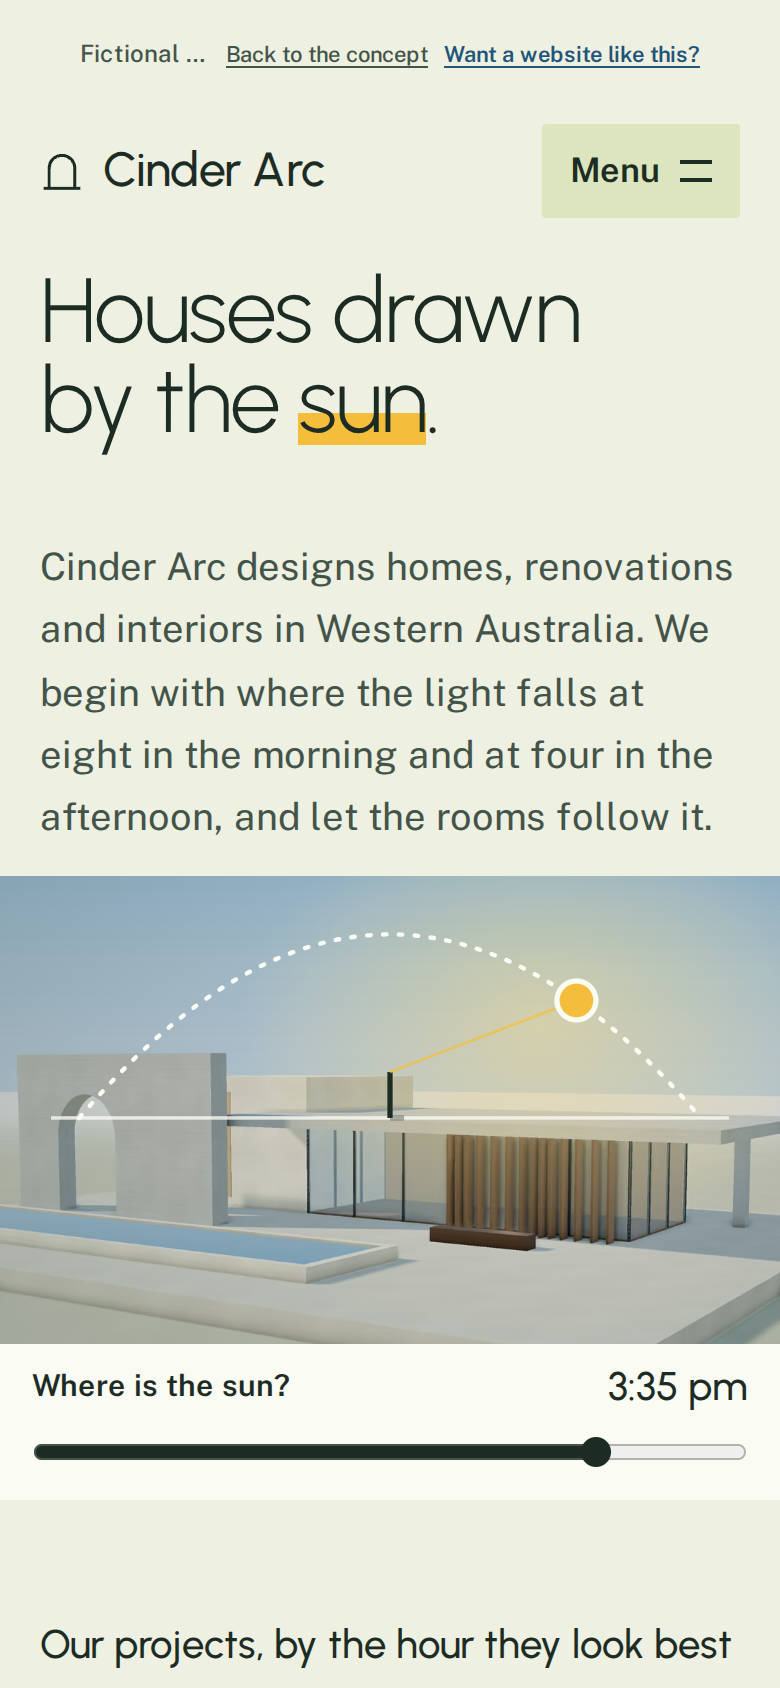
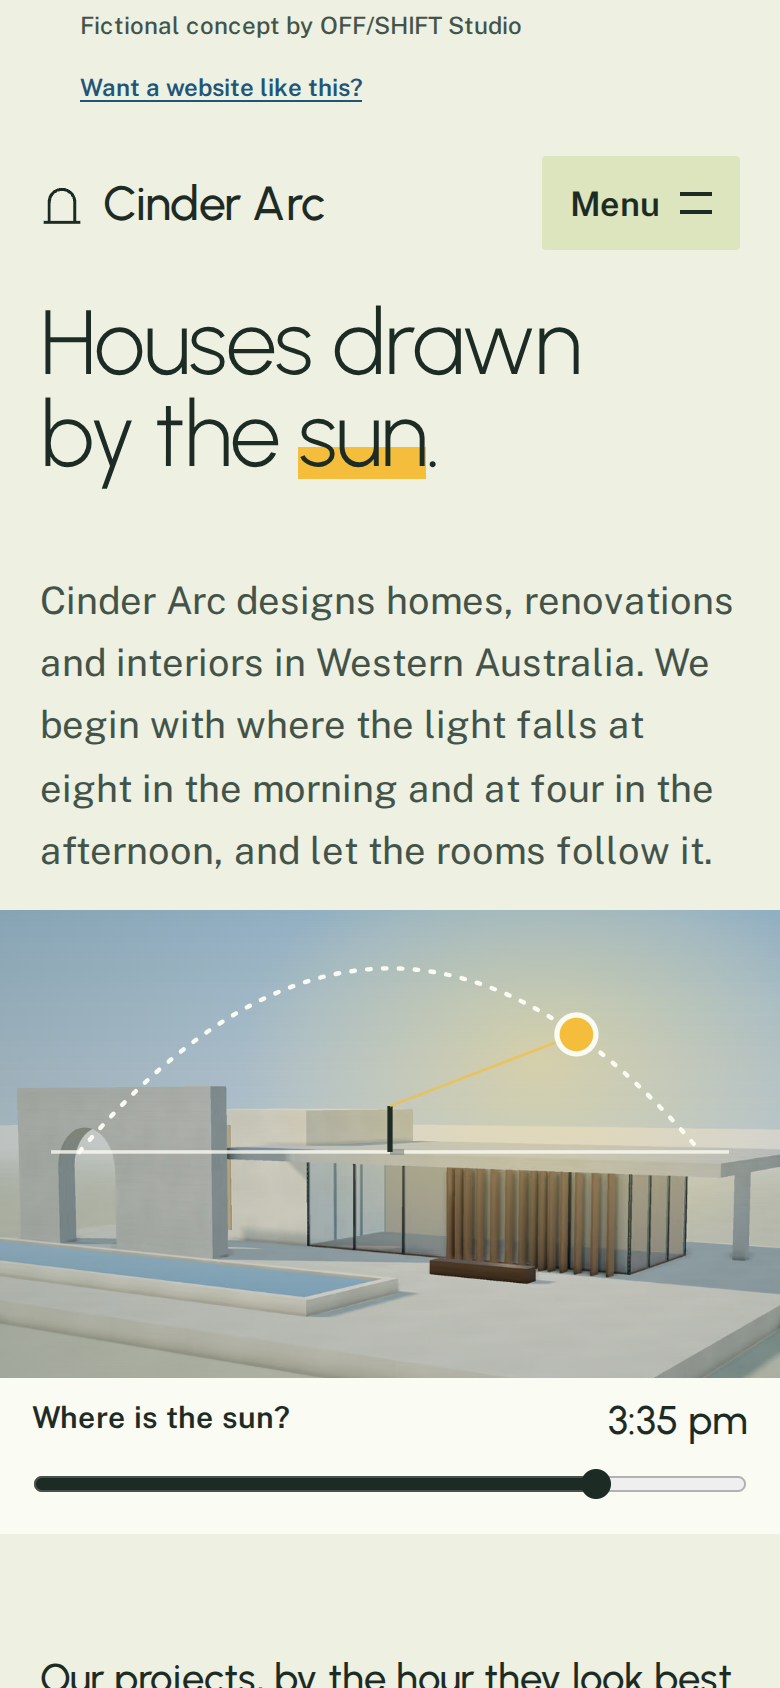
Show full fictional disclosure on mobile concept strip
Hide the strip back link below 60rem so disclosure and studio CTA
wrap instead of truncating; keep the return link in the footer. Tighten
the e2e strip test for mobile vs desktop without dropping coverage.

Changed region(s): [[0.0, 0.0, 1.0, 0.8934], [0.0308, 0.955, 0.9538, 1.0]]

diff --git a/tests/e2e/pages.spec.ts b/tests/e2e/pages.spec.ts
@@ -36,20 +36,32 @@ for (const route of routes) {
     test("shows the studio strip: disclosure, return link and enquiry link", async ({ page }) => {
       await page.goto(route);
       const strip = page.locator(".concept-strip");
+      const width = page.viewportSize()?.width ?? 0;
       await expect(strip.locator("[data-concept-disclosure]")).toHaveText(CONCEPT_DISCLOSURE);
+      if (width >= 360 && width <= 430) {
+        await expect(strip.locator("[data-concept-disclosure]")).toBeVisible();
+        const box = await strip.locator("[data-concept-disclosure]").boundingBox();
+        expect(box?.width ?? 0).toBeGreaterThan(200);
+      }
       const back = strip.locator("[data-concept-return]");
-      await expect(back).toBeVisible();
-      await expect(back).toHaveAttribute("href", CONCEPT_URL);
-      await expect(back).toHaveAccessibleName("Back to the concept");
+      const footerBack = page.locator(".site-footer [data-concept-return]");
       const cta = strip.locator("[data-concept-cta]");
       await expect(cta).toBeVisible();
       await expect(cta).toHaveAttribute("href", STUDIO_CTA_URL);
       await expect(cta).toHaveAccessibleName("Want a website like this?");
-      // The footer repeats both links.
+      if (width >= 960) {
+        await expect(back).toBeVisible();
+        await expect(back).toHaveAttribute("href", CONCEPT_URL);
+        await expect(back).toHaveAccessibleName("Back to the concept");
+      } else {
+        await expect(back).toBeHidden();
+        await expect(footerBack).toBeVisible();
+        await expect(footerBack).toHaveAttribute("href", CONCEPT_URL);
+        await expect(footerBack).toHaveAccessibleName("Back to the concept");
+      }
       await expect(page.locator(".site-footer [data-concept-return]")).toHaveAttribute("href", CONCEPT_URL);
       await expect(page.locator(".site-footer [data-concept-cta]")).toHaveAttribute("href", STUDIO_CTA_URL);
-      // On wide screens it stays in view after scrolling, in the fixed header.
-      if ((page.viewportSize()?.width ?? 0) >= 960) {
+      if (width >= 960) {
         await page.evaluate(() => window.scrollTo(0, document.body.scrollHeight / 2));
         await expect(cta).toBeInViewport();
       }

diff --git a/src/app/globals.css b/src/app/globals.css
@@ -269,40 +269,43 @@ main:focus {
 .concept-links-strip {
   width: min(100% - 2 * var(--gutter), 90rem);
   margin-inline: auto;
-  flex-wrap: nowrap;
-  gap: 0 0.5rem;
-  max-height: 3rem;
+  flex-wrap: wrap;
+  align-content: center;
+  gap: 0.1rem 0.65rem;
+  max-height: none;
 }
 
 .concept-disclosure {
   margin: 0;
   font-weight: 500;
-  white-space: nowrap;
-  overflow: hidden;
-  text-overflow: ellipsis;
-  min-width: 0;
-  flex: 1 1 auto;
-}
-
-.concept-link-back,
-.concept-links-strip .concept-cta {
-  flex: none;
-  display: inline-flex;
-  align-items: center;
-  min-height: 2.75rem;
-  padding: 0.2rem 0;
-  font-size: 0.6875rem;
-  font-weight: 600;
-  white-space: nowrap;
+  white-space: normal;
+  overflow: visible;
+  text-overflow: clip;
+  flex: 1 1 12rem;
+  min-width: min(100%, 12rem);
 }
 
 .concept-link-back {
-  color: inherit;
-  font-weight: 500;
+  display: none;
 }
 
 .concept-links-strip .concept-cta {
+  display: inline-flex;
+  align-items: center;
+  flex: 0 0 auto;
+  min-height: 2.75rem;
+  padding: 0.15rem 0;
+  font-size: 0.75rem;
+  font-weight: 600;
   color: var(--link);
+  white-space: nowrap;
+}
+
+@media (max-width: 26.875rem) {
+  .concept-disclosure,
+  .concept-links-strip .concept-cta {
+    flex: 1 1 100%;
+  }
 }
 
 .concept-actions {
@@ -332,11 +335,26 @@ main:focus {
   .concept-links-strip {
     flex-wrap: wrap;
     justify-content: space-between;
-    max-height: none;
     gap: 0.15rem 1.25rem;
   }
 
-  .concept-link-back,
+  .concept-disclosure {
+    flex: 1 1 auto;
+    min-width: 0;
+  }
+
+  .concept-link-back {
+    display: inline-flex;
+    align-items: center;
+    flex: none;
+    min-height: 0;
+    padding: 0;
+    font-size: inherit;
+    font-weight: 500;
+    color: inherit;
+    white-space: nowrap;
+  }
+
   .concept-links-strip .concept-cta {
     min-height: 0;
     padding: 0;
